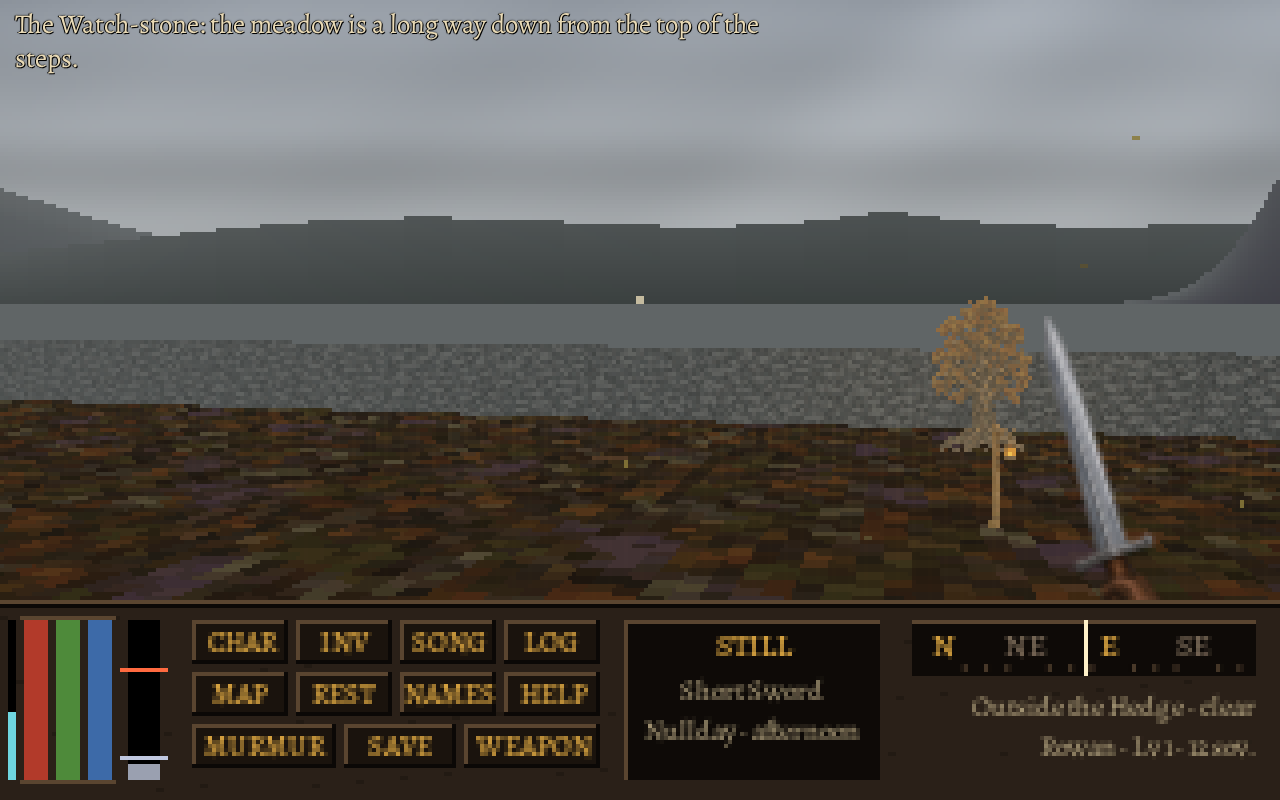
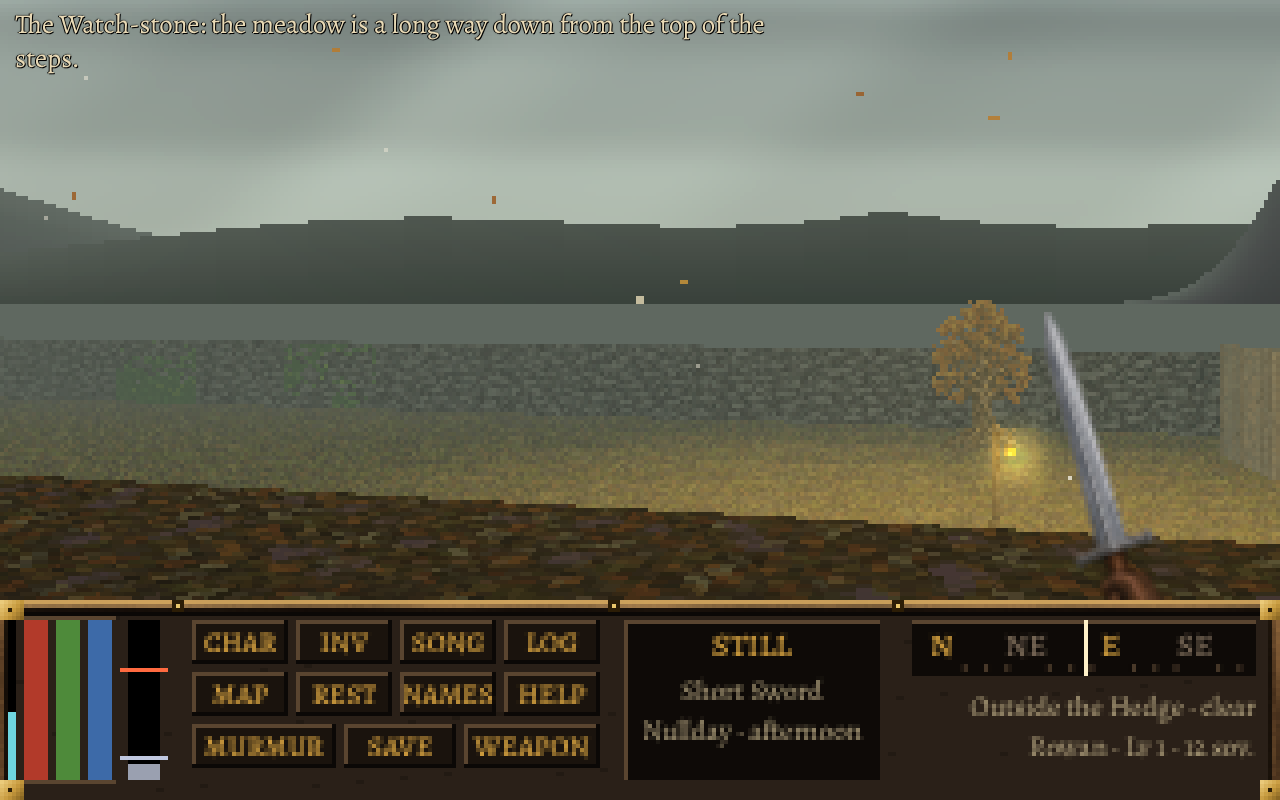
README: new screenshot section for Phases 2-5 (GIFs and stills), refreshed feature screenshots in the bundled fonts
The capture script now keeps the area loading cards out of its staged scenes.

Claude-Session: https://claude.ai/code/session_01TYjZA4Eb84PA9Yndxy475V

diff --git a/test/screenshots.js b/test/screenshots.js
@@ -35,6 +35,8 @@ const output = path.join(__dirname, '..', 'screenshots');
       // Freeze only this disposable capture page; step/render scenes explicitly
       // so UI and simulation timers cannot race the screenshot.
       window.requestAnimationFrame = () => 0;
+      // these scenes show other features; keep the area loading cards (js/screens.js) out of them
+      if (typeof GFX !== 'undefined') GFX.illustratedScreens = false;
     });
     await page.waitForTimeout(100); // drain the single already-queued frame
     await page.evaluate(() => {

diff --git a/README.md b/README.md
@@ -10,6 +10,33 @@ Explore Oakhaven and the land past the Hedge, then sail the Drift-Kestrel to Whi
 
 ## Screenshots
 
+### The 2026 upgrade: a spatial, living, illustrated world
+
+Phases 2 to 5 of the roadmap: real height and a modern look, combat that reads at a glance, a world that moves around you, and an illustrated interface. Every effect has a switch, and the Original preset shows the game exactly as it was. All new art is generated stand-in work until the painted versions arrive.
+
+| | |
+|---|---|
+| ![Oakhaven at night with stars, bloom and the colour grade](screenshots/p2-oakhaven-night.gif) | ![Water reflecting the sky and rippling under footsteps](screenshots/p2-water.gif) |
+| Oakhaven at night: stars that turn with the view, lamp bloom and the evening grade. | Water reflects the sky, walls and figures, and rings out from your footsteps. |
+| ![A legionnaire recoiling from blows](screenshots/p3-flinch.gif) | ![Switching weapons, then raising glowing hands to cast](screenshots/p3-hands.gif) |
+| Every enemy recoils from a hit. | Draw, holster and switch weapons; raise glowing hands to cast a Song. |
+| ![A tavern door swinging open and shut](screenshots/p3-door.gif) | ![A heavy-hit shake, then deafness blurs the view](screenshots/p3-feel.gif) |
+| Doors swing away from you; chest lids lift and levers pull. | A heavy blow shakes the view; a chord blast leaves you half-deaf, blurred and muffled. |
+| ![Running at a crow until it takes wing, chimney smoke behind](screenshots/p4-crow.gif) | ![The North Gate portcullis rising](screenshots/p4-gate.gif) |
+| Crows take wing when you run at them; Oakhaven's chimneys smoke. | Gates and portcullises rise, and you pass once the bars clear your head. |
+| ![The Belfry bell swinging on each toll](screenshots/p4-bell.gif) | ![The quarry shaft caving in](screenshots/p4-cave.gif) |
+| The Belfry bell swings on every strike and keeps swinging as it fades. | Once the bore is broken, the quarry shaft caves in; anyone caught inside is moved to safe ground. |
+| ![Framed inventory with item icons and the paper doll](screenshots/p5-inventory.jpg) | ![The logbook with a quest sketch](screenshots/p5-logbook.jpg) |
+| Carved-wood frames, blackletter headings, an icon for every item and a shaded paper doll. | An ink sketch beside each storyline in the logbook. |
+| ![The automap with door, quest-giver, shop and danger stamps](screenshots/p5-automap.jpg) | ![A conversation with a mood portrait](screenshots/p5-dialogue.jpg) |
+| The automap marks doors, quest givers, shops, enemies and traps in the places you have walked. | Portraits turn angry, sad, afraid or wry as conversations go. |
+| ![The painted card shown on entering the Boar & Dulcimer](screenshots/p5-area-card.jpg) | ![A death screen illustrated for a fall](screenshots/p5-death.jpg) |
+| A painted card as you enter each area, during the existing fade. | The death screen shows what killed you. |
+| ![The Grab the Line ending with its own illustration](screenshots/p5-ending.jpg) | ![Every item icon](screenshots/p5-icons.jpg) |
+| Every ending has its own full-screen picture. | The icon set: weapons, armour, potions, herbs and all 21 quest items. |
+
+More: [before and after for each Phase 2 effect](screenshots/p2-features.jpg) · [Phase 3 stills](screenshots/p3-stills.jpg) · [Phase 4 stills](screenshots/p4-stills.jpg) · [mood portraits](screenshots/p5-portraits.jpg) · [logbook sketches](screenshots/p5-sketches.jpg).
+
 ### New stealth features
 
 Staged scenes captured from the playable maps using the game's own feature logic and interface. Click an image for the full 1280 × 800 view.
@@ -159,7 +186,7 @@ PREVIEW_URL=http://127.0.0.1:8000 node test/screenshots.js
 
 If Playwright is installed outside this repository, set `PLAYWRIGHT_MODULE` to its module path. The capture script starts a fresh disposable game, stages illustrative scenes with the game's own feature logic, checks each scene's interface and PNG output, and refreshes the six `screenshots/stealth-*.png` images plus the travel, stables, watch, journey-needs, hardcore, weather, terrain and relief images above. It does not start a server or alter game source or player save files.
 
-Headless Chromium needs fonts installed in the capture environment; without a font stack the panels render empty. Install `fontconfig` with a serif family (DejaVu Serif is what these images use) before capturing.
+The game's fonts are bundled in `fonts/`, so captures render in the intended typefaces without any system fonts or network access.
 
 ### Host it on GitHub Pages
 
